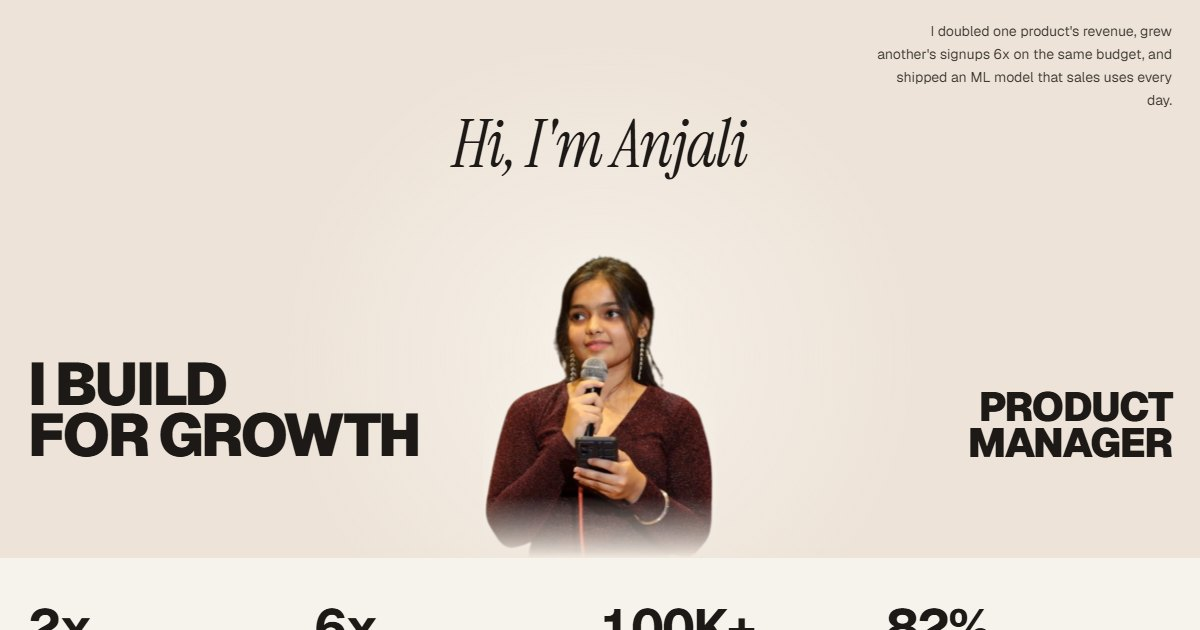
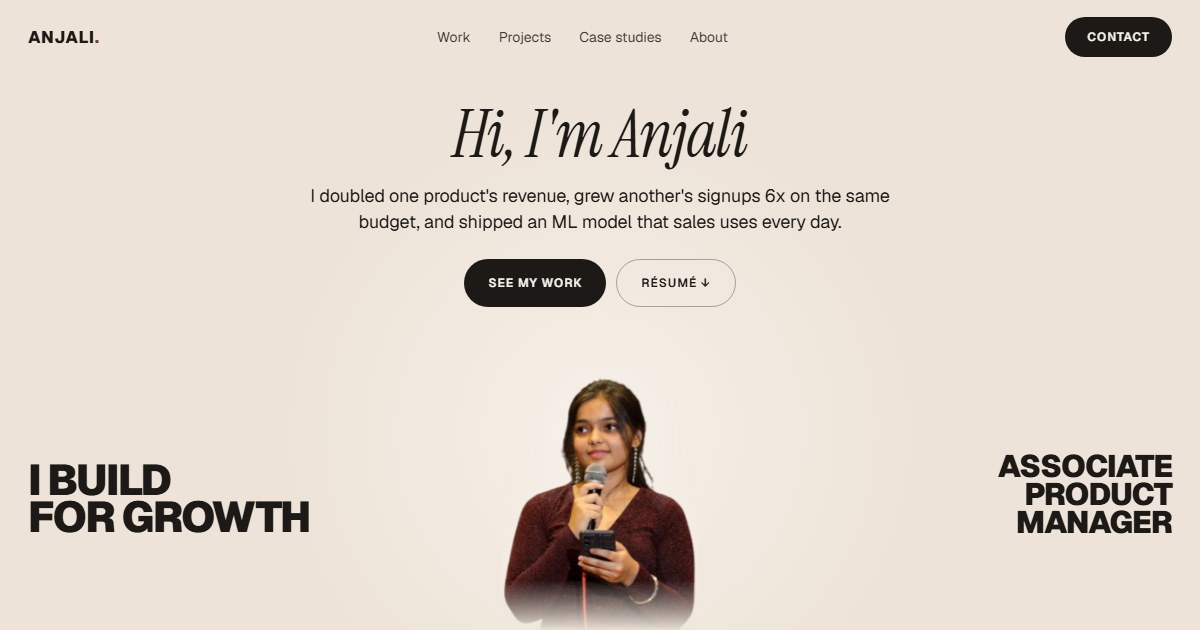
Match title and figures across site, bot and link preview

diff --git a/index.html b/index.html
@@ -3,14 +3,14 @@
 <head>
 <meta charset="utf-8">
 <meta name="viewport" content="width=device-width, initial-scale=1, viewport-fit=cover">
-<title>Anjali Verma, Product Manager</title>
-<meta name="description" content="Product manager who doubled one product's revenue, grew another's signups 6x on the same budget, and shipped an ML model that sales uses every day.">
+<title>Anjali Verma, Associate Product Manager</title>
+<meta name="description" content="Associate Product Manager focused on growth and data. Doubled one product's revenue, grew another's signups 6x on the same budget, and shipped an ML model that sales uses every day.">
 <meta name="theme-color" content="#EDE3D8">
 <link rel="icon" href="./favicon.svg" type="image/svg+xml">
 <link rel="canonical" href="https://my-portfolio-anjali2034.vercel.app/">
 <meta property="og:type" content="website">
-<meta property="og:title" content="Anjali Verma, Product Manager">
-<meta property="og:description" content="Product manager who doubled one product's revenue, grew another's signups 6x on the same budget, and shipped an ML model that sales uses every day.">
+<meta property="og:title" content="Anjali Verma, Associate Product Manager">
+<meta property="og:description" content="Associate Product Manager focused on growth and data. Doubled one product's revenue, grew another's signups 6x on the same budget, and shipped an ML model that sales uses every day.">
 <meta property="og:url" content="https://my-portfolio-anjali2034.vercel.app/">
 <meta property="og:image" content="https://my-portfolio-anjali2034.vercel.app/assets/og-image.jpg">
 <meta property="og:image:width" content="1200">
@@ -139,7 +139,7 @@ input::placeholder{color:#857D73}
 <section id="top" class="hero" style="background: #EDE3D8; margin-top: -72px; padding-top: 72px; overflow: hidden; box-sizing: border-box; min-height: 100vh; display: flex">
 <div class="hero-inner" style="position: relative; flex: 1; width: 100%; max-width: 1280px; margin: 0 auto; padding: 20px 28px 0; box-sizing: border-box; display: flex; flex-direction: column">
 <div style="position: absolute; left: 50%; bottom: -120px; transform: translateX(-50%); width: 640px; max-width: 120%; aspect-ratio: 1; border-radius: 50%; background: radial-gradient(closest-side, #F6F0E8, rgba(246,240,232,0))"></div>
-<div class="in hero-eyebrow" style="display: none; position: relative; text-align: center; font-size: 12px; font-weight: 600; letter-spacing: 0.14em; text-transform: uppercase; color: #6B645B">Product manager · Growth</div>
+<div class="in hero-eyebrow" style="display: none; position: relative; text-align: center; font-size: 12px; font-weight: 600; letter-spacing: 0.14em; text-transform: uppercase; color: #6B645B">Associate PM · Growth and data</div>
 <h1 class="in d1 hero-h1" style="position: relative; text-align: center; font-family: 'Instrument Serif', serif; font-style: italic; font-weight: 400; font-size: clamp(44px, 5.4vw, 88px); line-height: 1; letter-spacing: -0.02em; margin: 8px 0 0">Hi, I'm Anjali</h1>
 <div class="in d1 hero-intro" style="position: relative; display: flex; justify-content: center; margin-top: 16px">
 <p style="max-width: 640px; text-align: center; font-size: clamp(18px, 1.5vw, 22px); line-height: 1.45; letter-spacing: -0.01em; color: #1C1916; margin: 0">I doubled one product's revenue, grew another's signups 6x on the same budget, and shipped an ML model that sales uses every day.</p>
@@ -152,7 +152,7 @@ input::placeholder{color:#857D73}
 <div class="in d2 hero-text hero-a" style="position: relative; z-index: 2; font-family: {{f.display}}; font-weight: 900; font-size: clamp(32px, 3.6vw, 60px); line-height: 0.86; letter-spacing: -0.045em; text-transform: uppercase; padding-bottom: 40px">I build<br>for growth</div>
 <img class="in d3 hero-img" src="./assets/967818dd383bfdc78c37e95df8994397.webp" alt="Anjali Verma speaking on stage" style="position: absolute; left: 50%; bottom: 0; transform: translateX(-50%); display: block; height: clamp(260px, calc(100vh - 380px), 540px); width: auto; max-width: 86vw; filter: drop-shadow(0 0 18px rgba(246,240,232,0.9)); -webkit-mask-image: linear-gradient(to bottom, #000 80%, transparent 100%); mask-image: linear-gradient(to bottom, #000 80%, transparent 100%)">
 <div class="in d4 hero-text hero-b" style="position: relative; z-index: 2; text-align: right; padding-bottom: 40px">
-<div style="font-family: {{f.display}}; font-weight: 900; font-size: clamp(24px, 2.6vw, 42px); line-height: 0.9; letter-spacing: -0.035em; text-transform: uppercase">Product <br>Manager</div>
+<div style="font-family: {{f.display}}; font-weight: 900; font-size: clamp(24px, 2.6vw, 42px); line-height: 0.9; letter-spacing: -0.035em; text-transform: uppercase">Associate<br>Product<br>Manager</div>
 </div>
 </div>
 </div>
@@ -160,7 +160,7 @@ input::placeholder{color:#857D73}
 <section ref="{{setImpact}}" style="background: #F6F3EC; border-bottom: 1px solid #E2DCD1">
 <div class="impact-grid" style="max-width: 1280px; margin: 0 auto; padding: 0 28px; box-sizing: border-box; display: grid; grid-template-columns: repeat(auto-fit, minmax(220px, 1fr))">
 <div style="padding: 36px 24px 36px 0"><div style="font-family: {{f.display}}; font-weight: 700; font-size: 52px; letter-spacing: -0.04em; font-variant-numeric: tabular-nums">{{n1}}</div><div style="font-size: 14px; color: #6B645B; margin-top: 4px">quiz revenue a month</div></div>
-<div style="padding: 36px 24px 36px 0"><div style="font-family: {{f.display}}; font-weight: 700; font-size: 52px; letter-spacing: -0.04em; font-variant-numeric: tabular-nums">{{n2}}</div><div style="font-size: 14px; color: #6B645B; margin-top: 4px">signups on the same ₹30K budget</div></div>
+<div style="padding: 36px 24px 36px 0"><div style="font-family: {{f.display}}; font-weight: 700; font-size: 52px; letter-spacing: -0.04em; font-variant-numeric: tabular-nums">{{n2}}</div><div style="font-size: 14px; color: #6B645B; margin-top: 4px">signups on the same budget</div></div>
 <div style="padding: 36px 24px 36px 0"><div style="font-family: {{f.display}}; font-weight: 700; font-size: 52px; letter-spacing: -0.04em; font-variant-numeric: tabular-nums">{{n3}}</div><div style="font-size: 14px; color: #6B645B; margin-top: 4px">leads scored every month</div></div>
 <div style="padding: 36px 24px 36px 0"><div style="font-family: {{f.display}}; font-weight: 700; font-size: 52px; letter-spacing: -0.04em; font-variant-numeric: tabular-nums">{{n4}}</div><div style="font-size: 14px; color: #6B645B; margin-top: 4px">lower cost per signup</div></div>
 </div>
@@ -202,7 +202,7 @@ input::placeholder{color:#857D73}
 <button type="button" onClick="{{openP1}}" aria-label="See what I did: FMGE Growth" style="position: absolute; inset: 0; z-index: 2; width: 100%; height: 100%; border: 0; padding: 0; background: transparent; border-radius: 28px; cursor: pointer"></button>
 <div class="result" style="height: 300px; border-radius: 20px; background: #1C1916; color: #F6F3EC; overflow: hidden; position: relative; padding: 24px 26px; box-sizing: border-box; display: flex; flex-direction: column; justify-content: space-between">
 <div class="shot" style="display: flex; justify-content: space-between; align-items: center; font-size: 11px; letter-spacing: 0.14em; text-transform: uppercase; opacity: 0.75"><span>Result</span></div>
-<div style="display: flex; align-items: baseline; gap: 16px; flex-wrap: wrap"><span class="bignum" style="font-family: 'Instrument Serif', serif; font-style: italic; font-size: 104px; line-height: 0.85; letter-spacing: -0.02em">6x</span><span style="font-size: 15px; line-height: 1.35; max-width: 200px; opacity: 0.85">signups on the same ₹30K budget</span></div>
+<div style="display: flex; align-items: baseline; gap: 16px; flex-wrap: wrap"><span class="bignum" style="font-family: 'Instrument Serif', serif; font-style: italic; font-size: 104px; line-height: 0.85; letter-spacing: -0.02em">6x</span><span style="font-size: 15px; line-height: 1.35; max-width: 200px; opacity: 0.85">signups on the same budget</span></div>
 <div style="display: flex; gap: 16px"><div style="flex: 1 1 0; min-width: 0; padding: 14px 16px 0 0; border-top: 1px solid rgba(246,243,236,0.2)"><div style="font-weight: 700; font-size: 20px; letter-spacing: -0.02em; line-height: 1.15">&lt;50 → 300+</div><div style="font-size: 12px; line-height: 1.35; opacity: 0.72; margin-top: 4px">signups a month</div></div><div style="flex: 1 1 0; min-width: 0; padding: 14px 16px 0 0; border-top: 1px solid rgba(246,243,236,0.2)"><div style="font-weight: 700; font-size: 20px; letter-spacing: -0.02em; line-height: 1.15">₹600 → ₹107</div><div style="font-size: 12px; line-height: 1.35; opacity: 0.72; margin-top: 4px">cost per signup</div></div><div style="flex: 1 1 0; min-width: 0; padding: 14px 16px 0 0; border-top: 1px solid rgba(246,243,236,0.2)"><div style="font-weight: 700; font-size: 20px; letter-spacing: -0.02em; line-height: 1.15">5x</div><div style="font-size: 12px; line-height: 1.35; opacity: 0.72; margin-top: 4px">revenue a month</div></div></div>
 </div>
 <div style="padding: 22px 10px 10px">
@@ -211,7 +211,7 @@ input::placeholder{color:#857D73}
 <span style="font-size: 11px; letter-spacing: 0.12em; text-transform: uppercase; color: #6B645B">Growth · Reflexprep · 2026</span>
 </div>
 <div style="display: flex; justify-content: space-between; align-items: flex-end; gap: 16px; flex-wrap: wrap; margin-top: 10px">
-<p style="font-size: 16px; line-height: 1.55; color: #3F3A34; margin: 0; max-width: 420px">Swapped ads for WhatsApp communities. <b style="color: #1C1916">6x signups on the same ₹30K budget.</b></p>
+<p style="font-size: 16px; line-height: 1.55; color: #3F3A34; margin: 0; max-width: 420px">Swapped ads for WhatsApp communities. <b style="color: #1C1916">6x signups on the same budget.</b></p>
 <span class="ul" style="font-size: 12px; font-weight: 600; letter-spacing: 0.08em; text-transform: uppercase; padding-bottom: 3px; color: {{a.deep}}; white-space: nowrap">See what I did ↗</span>
 </div>
 </div>
@@ -381,7 +381,7 @@ input::placeholder{color:#857D73}
 <div style="display: flex; flex-wrap: wrap; gap: 8px; margin-top: 24px">
 <span style="font-size: 13px; padding: 8px 14px; border-radius: 999px; background: #EDE3D8">1st place, Techothon</span>
 <span style="font-size: 13px; padding: 8px 14px; border-radius: 999px; background: #E8E5EE">Smart India Hackathon 2025</span>
-<span style="font-size: 13px; padding: 8px 14px; border-radius: 999px; background: #E3EAEE">Google Cloud AI challenge</span></div>
+<span style="font-size: 13px; padding: 8px 14px; border-radius: 999px; background: #E3EAEE">Google Cloud AI Builders Cup</span></div>
 </div>
 <div class="rv" style="display: flex; flex-direction: column; justify-content: flex-end">
 <div style="display: grid; grid-template-columns: 1fr auto; gap: 16px; padding: 24px 0; border-top: 1px solid #E2DCD1"><div><div style="font-weight: 600; font-size: 18px">Reflexprep</div><div style="font-size: 15px; color: #6B645B; margin-top: 2px">Associate Product Manager</div></div><div style="font-size: 14px; color: #6B645B">Jun to Sep 2026</div></div>
@@ -486,8 +486,8 @@ var PROJ = [
     results: [{ v: "230 → 480", l: "daily players" }, { v: "2x", l: "quiz revenue a month" }, { v: "Form → product", l: "manual workflow replaced" }],
     tools: ["PRD", "Sprint planning", "UAT"] },
   { kicker: "Growth · Reflexprep · 2026", title: "FMGE Growth", role: "Owned the channel test",
-    context: "The FMGE platform had stalled below 50 signups a month on a ₹30K monthly budget spent on paid ads.",
-    did: ["Tested WhatsApp community partnerships as a new acquisition channel", "Kept the budget flat at ₹30K a month", "Compared cost per signup and revenue against paid ads"],
+    context: "The FMGE platform had stalled below 50 signups a month on its paid ads budget.",
+    did: ["Tested WhatsApp community partnerships as a new acquisition channel", "Kept the monthly budget flat", "Compared cost per signup and revenue against paid ads"],
     results: [{ v: "6x", l: "signups, under 50 to 300+ a month" }, { v: "₹600 → ₹107", l: "cost per signup" }, { v: "5x", l: "revenue a month" }],
     tools: ["WhatsApp communities", "Partnerships", "Budget tracking"] },
   { kicker: "Data and ML · NEETprep · Jan to Jun 2026", title: "Lead Scoring", role: "CEO's office intern",

diff --git a/bot-knowledge.js b/bot-knowledge.js
@@ -97,7 +97,7 @@ window.BOT_KB = {
       id: "confidential-numbers", tier: 0,
       strong: ["exact revenue", "how much revenue", "revenue in rupees", "actual revenue", "how much money", "absolute numbers", "ad spend", "ad budget", "how much budget"],
       terms: ["rupees", "inr", "budget"],
-      text: "Anjali keeps her former employers' internal revenue and spend figures confidential, so she shares results as multiples and percentages: 2x monthly quiz revenue, 6x signups on the same budget, and over 80% lower cost per signup.",
+      text: "Anjali keeps her former employers' internal revenue and budget figures confidential, so she shares results as multiples and unit costs: 2x monthly quiz revenue, 6x signups on the same budget, and cost per signup down from ₹600 to ₹107.",
       links: ["work"],
       next: ["How did she grow signups 6x?", "Biggest win?"]
     },
@@ -316,7 +316,7 @@ window.BOT_KB = {
       id: "fmge", tier: 1, brag: true,
       strong: ["fmge", "6x", "signups 6x", "whatsapp community", "whatsapp communities", "whatsapp channel", "whatsapp group", "group admin", "admin"],
       terms: ["acquisition", "signup", "sign up", "growth", "grow", "marketing", "channel", "community", "cost per signup", "cps", "cac"],
-      text: "FMGE is the licensing exam for Indians who studied medicine abroad, and those students already gather in WhatsApp groups by country and university. Reflexprep's new FMGE platform had stalled below 50 signups a month on paid ads, so Anjali partnered with the admins of 20+ of these groups, offering a fee plus free mock tests and exclusive content for their members. On the same budget, signups grew 6x to 300+ a month and cost per signup fell by over 80%.",
+      text: "FMGE is the licensing exam for Indians who studied medicine abroad, and those students already gather in WhatsApp groups by country and university. Reflexprep's new FMGE platform had stalled below 50 signups a month on paid ads, so Anjali partnered with the admins of 20+ of these groups, offering a fee plus free mock tests and exclusive content for their members. On the same budget, signups grew 6x to 300+ a month, cost per signup fell from ₹600 to ₹107, and monthly revenue grew 5x.",
       links: ["fmge"],
       next: ["How does she run experiments?", "Her role vs the team?"]
     },
